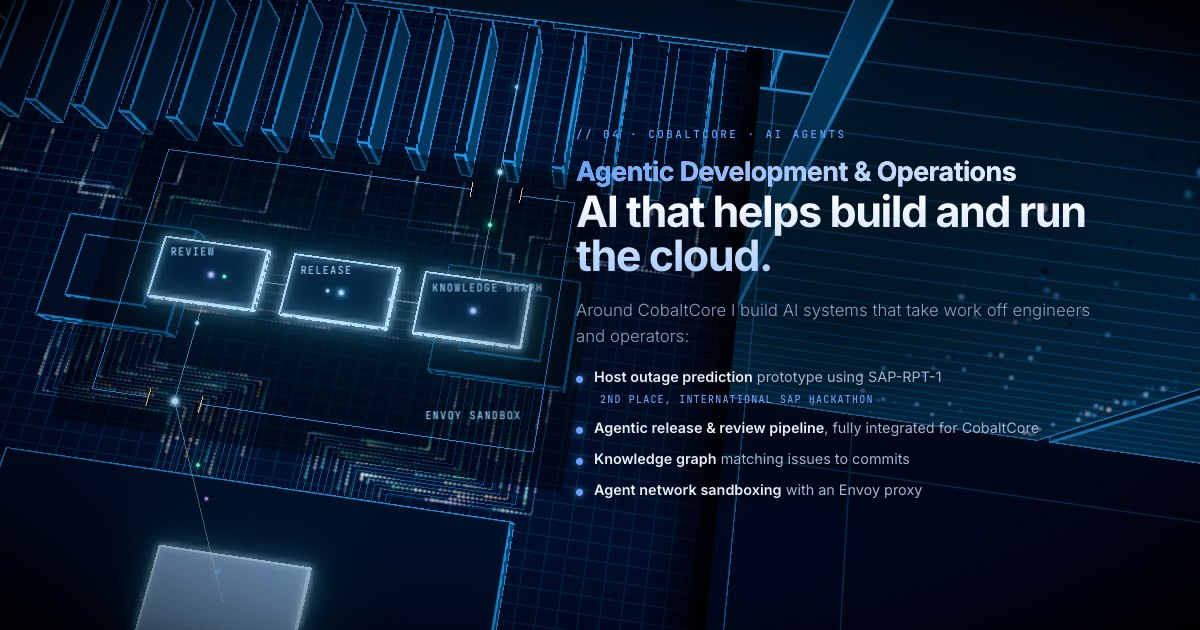
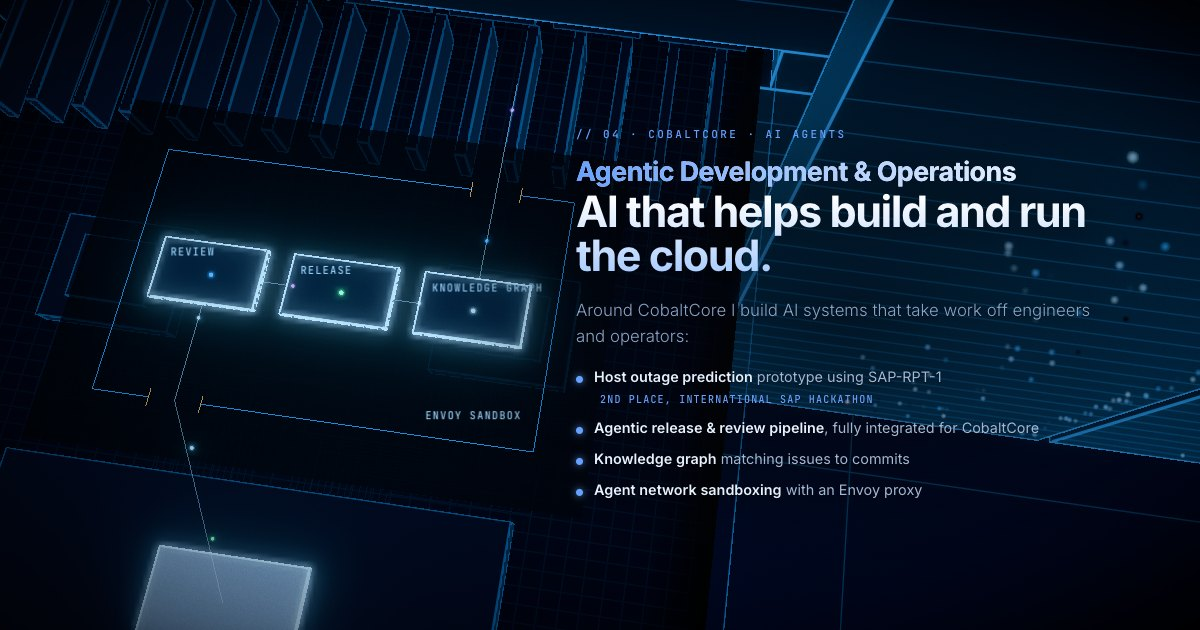
Let the board step back behind the agent pipeline
While the agentic chapter is on screen, the server's traces, components
and data pulses fade, the glass under the sandbox is darker and wider,
and fewer agents run, so the pipeline is the only busy thing in frame.

diff --git a/src/chapters/server.ts b/src/chapters/server.ts
@@ -259,6 +259,7 @@ export class Server {
    * @param lid 0..1 how transparent the chassis lid is
    * @param flows 0..1 visibility of data pulses
    * @param heat 0..1 GPU glow
+   * @param dim 0..1 how far the board steps back (while the agent pipeline floats above it)
    */
   update(o: {
     visible: number
@@ -266,6 +267,7 @@ export class Server {
     lid: number
     flows: number
     heat: number
+    dim?: number
     time: number
     scale: number
   }) {
@@ -278,12 +280,13 @@ export class Server {
     this.chassisMat.uniforms.uVisible.value = v
     this.chassisMat.depthWrite = fill > 0.9 && v > 0.98
     this.internals.visible = o.lid > 0.01
-    this.boardMat.uniforms.uVisible.value = o.lid * v
-    this.componentMat.uniforms.uVisible.value = o.lid * v
+    const keep = 1 - 0.75 * (o.dim ?? 0)
+    this.boardMat.uniforms.uVisible.value = o.lid * v * keep
+    this.componentMat.uniforms.uVisible.value = o.lid * v * keep
     this.gpuMat.uniforms.uVisible.value = o.lid * v
     this.gpuMat.uniforms.uGlow.value = 1.2 + o.heat * 3
     this.gpuMat.uniforms.uFill.value.setRGB(0.04 + o.heat * 0.5, 0.16 + o.heat * 0.6, 0.36 + o.heat * 0.7)
-    this.traceMat.opacity = 0.35 * o.lid * v * (0.6 + 0.4 * o.flows)
+    this.traceMat.opacity = 0.35 * o.lid * v * (0.6 + 0.4 * o.flows) * keep * keep
     this.pulseMat.uniforms.uVisible.value = o.flows * v
     this.pulseMat.uniforms.uTime.value = o.time
     this.pulseMat.uniforms.uScale.value = o.scale

diff --git a/src/chapters/agents.ts b/src/chapters/agents.ts
@@ -47,7 +47,7 @@ export const STATIONS = [
 const ENTRY = { x: 0.002, z: SANDBOX.z1 }
 const PROXY = { x: 0.126, z: SANDBOX.z0 }
 
-const AGENTS = 18
+const AGENTS = 10
 const CYCLE = 9 // seconds per round trip
 const DWELL = 0.11 // share of the cycle spent at each card
 
@@ -112,7 +112,7 @@ export class Agents {
 
   constructor() {
     // Dark glass under the sandbox: separates the pipeline from the busy board below.
-    const glass = new Mesh(new PlaneGeometry(SANDBOX.x1 - SANDBOX.x0 + 0.03, SANDBOX.z1 - SANDBOX.z0 + 0.03), this.glassMat)
+    const glass = new Mesh(new PlaneGeometry(SANDBOX.x1 - SANDBOX.x0 + 0.05, SANDBOX.z1 - SANDBOX.z0 + 0.05), this.glassMat)
     glass.rotation.x = -Math.PI / 2
     glass.position.set((SANDBOX.x0 + SANDBOX.x1) / 2, -0.001, (SANDBOX.z0 + SANDBOX.z1) / 2)
     glass.renderOrder = 10
@@ -242,7 +242,7 @@ export class Agents {
     if (!this.group.visible) return
 
     const v = o.visible
-    this.glassMat.opacity = 0.72 * v
+    this.glassMat.opacity = 0.9 * v
     this.outlineMat.opacity = 0.75 * v
     this.wireMat.opacity = 0.35 * v
     this.riseMat.opacity = 0.3 * v

diff --git a/src/main.ts b/src/main.ts
@@ -251,8 +251,9 @@ async function boot() {
       visible: p > 0.38 ? 1 - smooth(range(p, T.hallOut[0], T.hallOut[1])) : 0,
       slide,
       lid,
-      // The board's data pulses step back while the agent pipeline is on screen.
-      flows: flows * (1 - 0.8 * agentsVis),
+      // The board steps back while the agent pipeline is on screen.
+      flows: flows * (1 - agentsVis),
+      dim: agentsVis,
       heat,
       time,
       scale,
